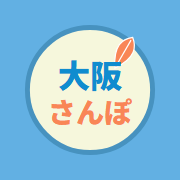
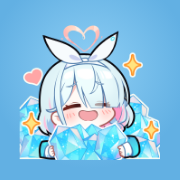
アイコンとファビコンをファンキットのスタンプに変更
- ホーム画面用アイコン（180/192/512）とファビコンを、公式ファンキットの
  スタンプ（サークルスタンプ 1-02）を空色の地に置いたものに変更

diff --git a/sw.js b/sw.js
@@ -1,6 +1,6 @@
 // 大阪さんぽのしおり：オフラインでも開けるようにするための Service Worker
 // index.html などを更新したら CACHE の番号を上げる
-const CACHE = 'osaka-sanpo-v24';
+const CACHE = 'osaka-sanpo-v25';
 const ASSETS = [
   './',
   './index.html',
